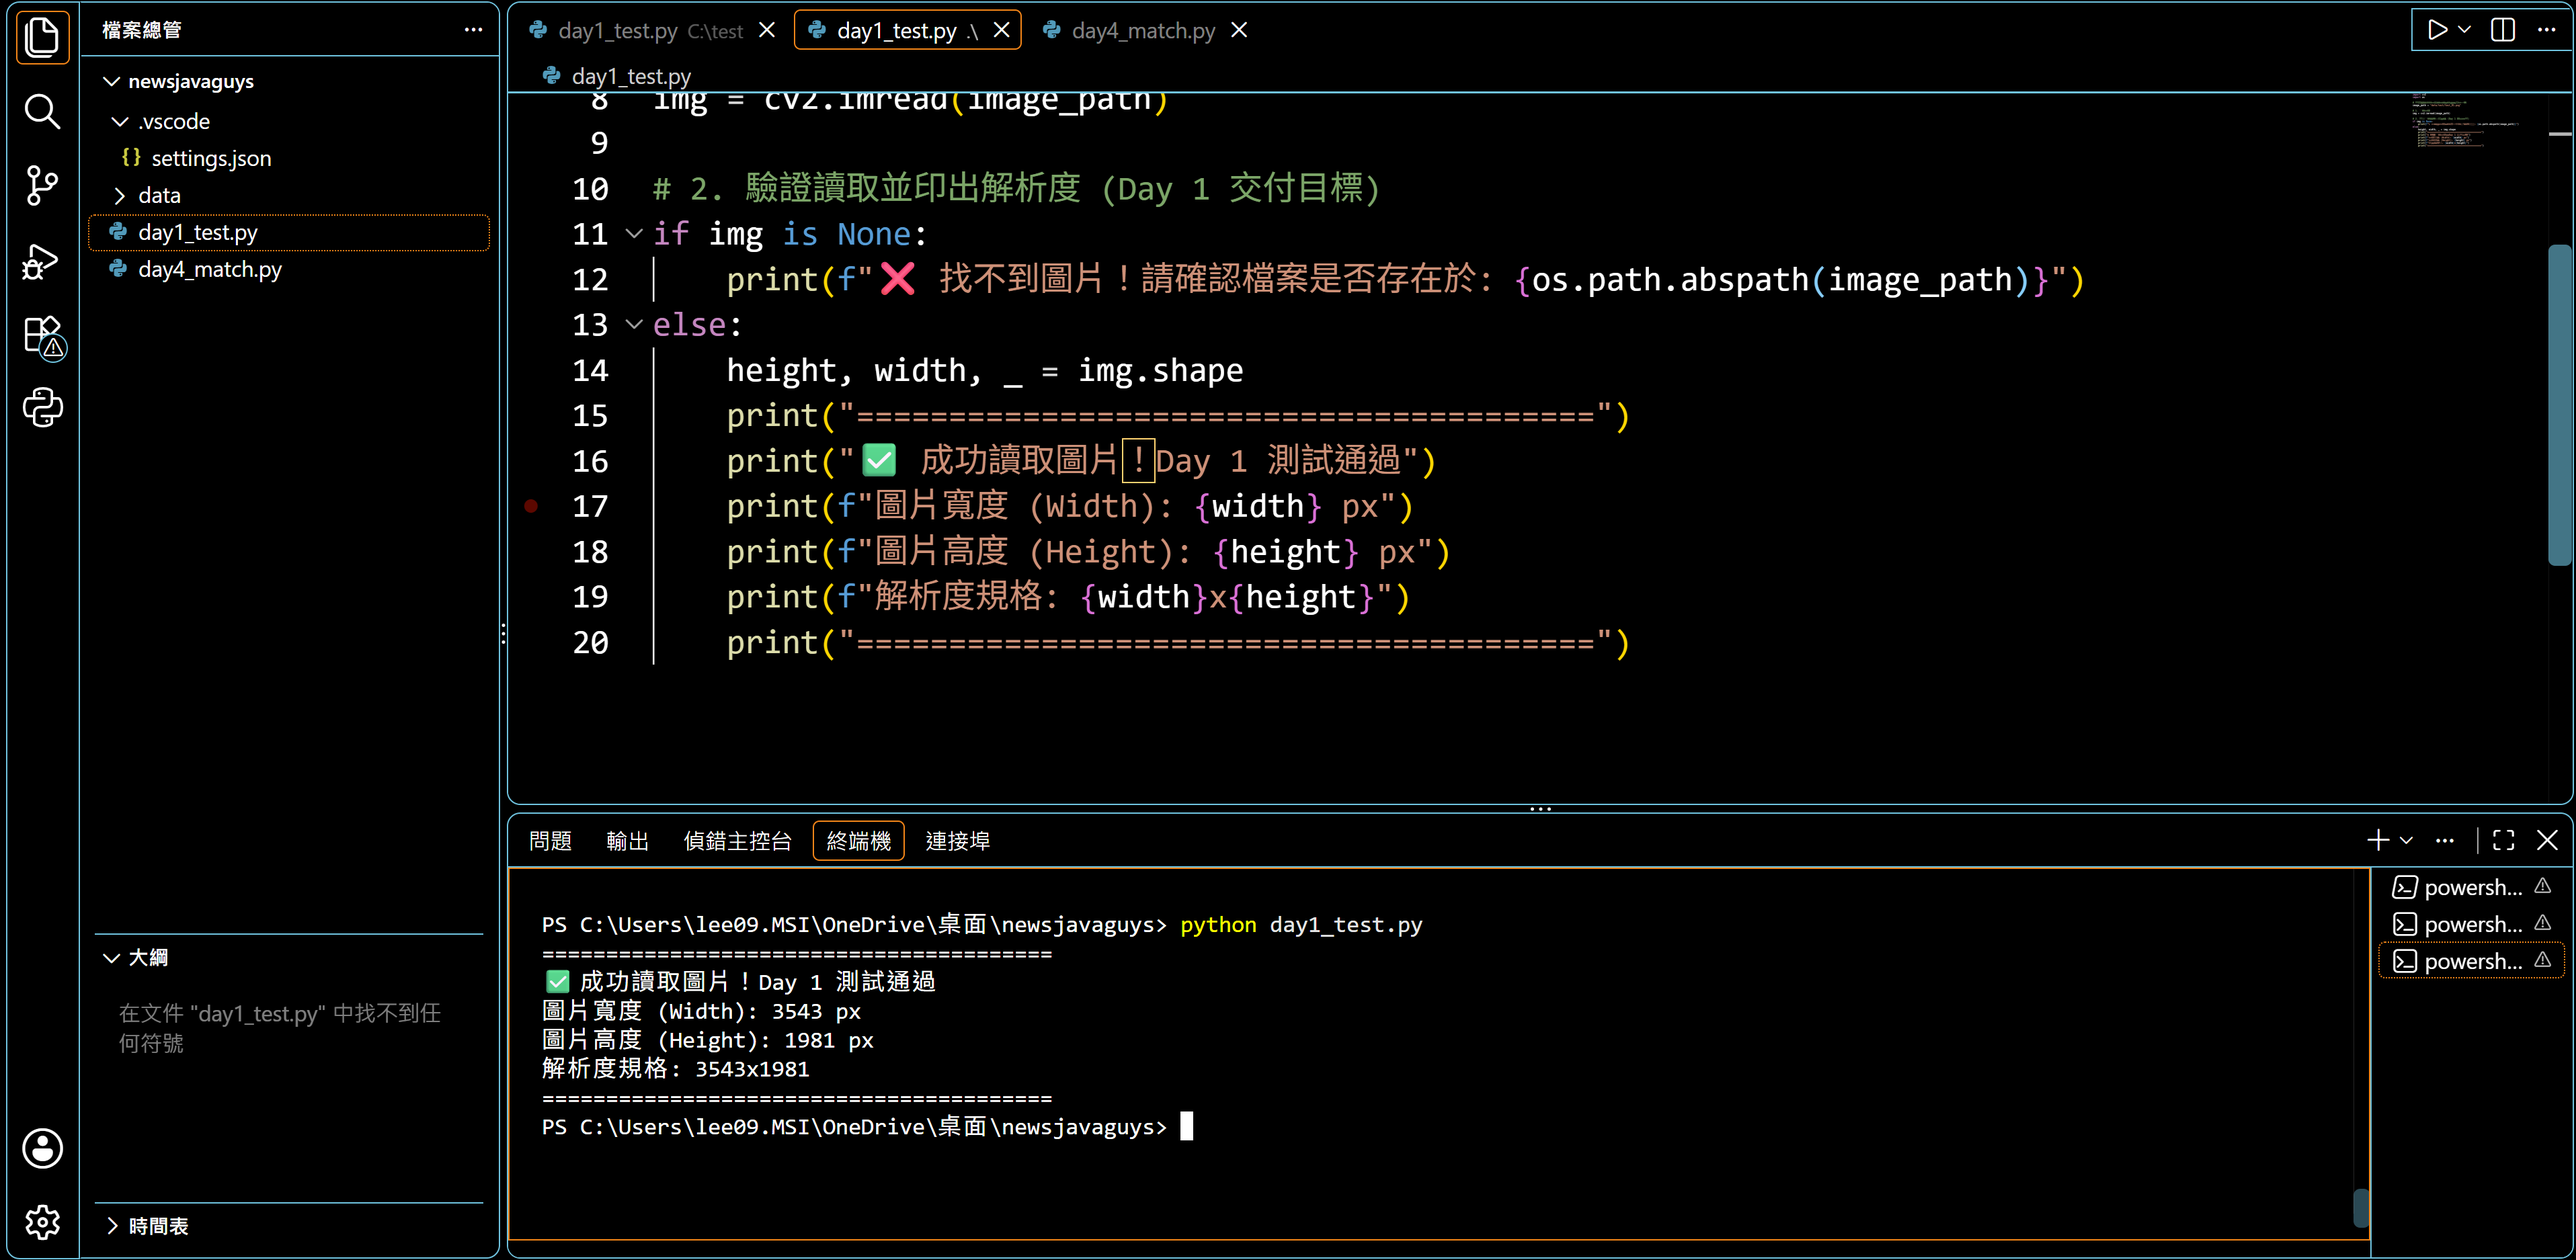
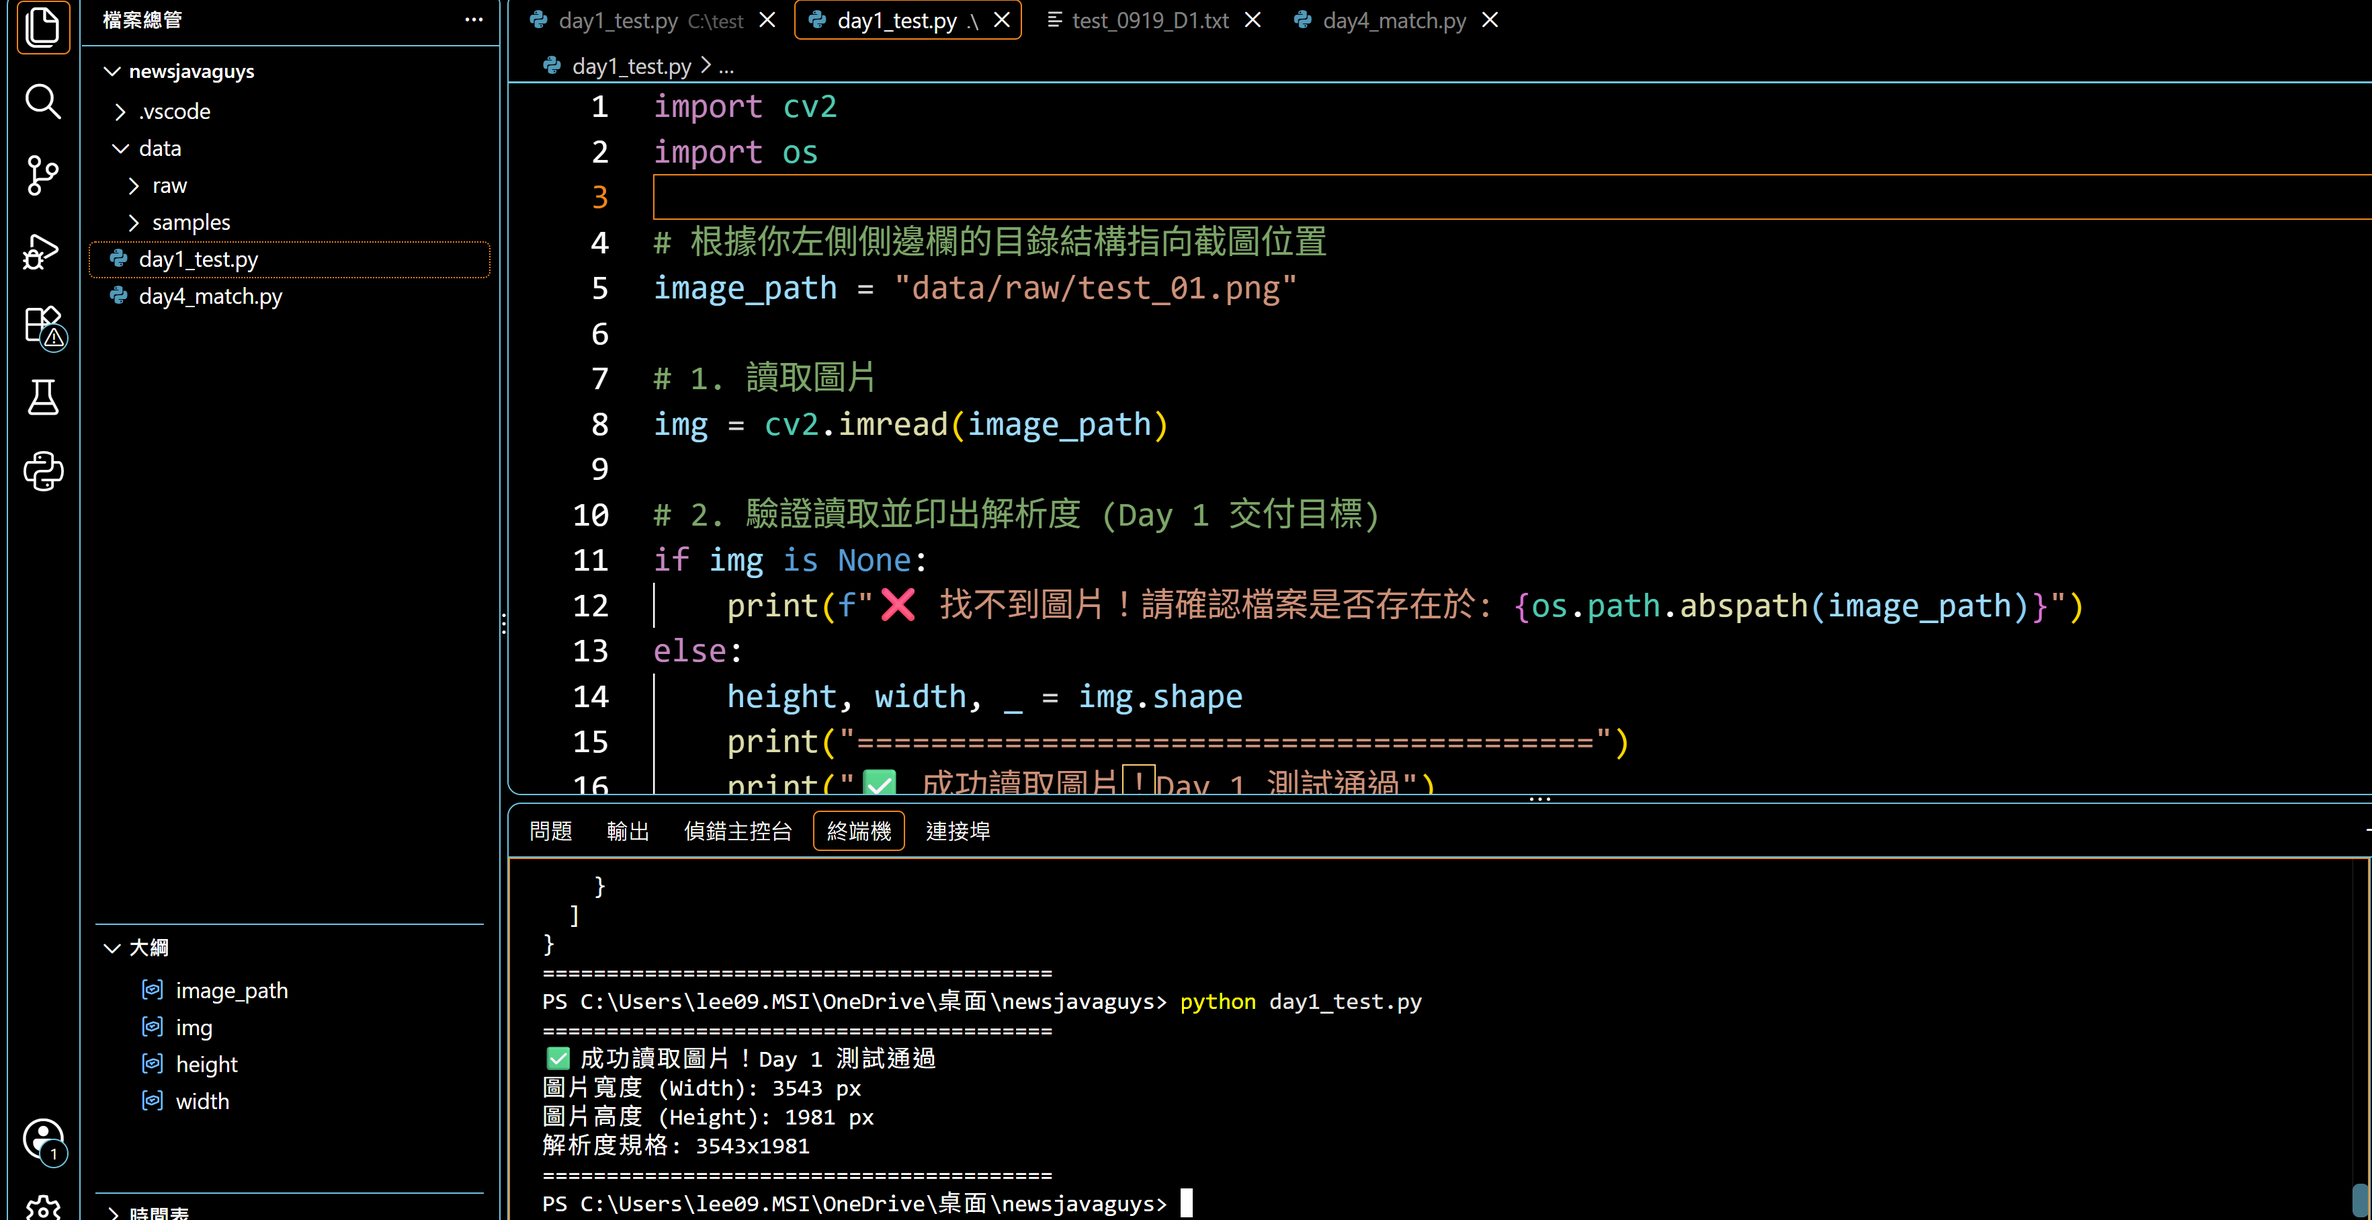
refactor: update data path specs, code blocks, and capture.py skeleton

diff --git a/docs/perception/data_spec.md b/docs/perception/data_spec.md
@@ -3,15 +3,15 @@
 ## 1. 專案目錄結構
 ```text
 TW16-Mahjong-Agent/
-├── configs/
-├── data/
+├── configs/          # 設定檔目錄
+├── data/             # 資料目錄
 │   ├── raw/          # 原始測試圖片
 │   ├── processed/    # 預處理後影像
 │   └── samples/      # 42 張牌面模板 (0.png ~ 41.png)
-├── docs/
-│   └── perception/
-├── src/
-└── main.py
+├── docs/             # 專案文檔目錄
+│   └── perception/   # 視覺模組規格文檔與圖片
+├── src/              # 主程式碼目錄
+└── main.py           # 專案入口點
 ```
 
 ## 2. 標註與結構驗證

diff --git a/docs/perception/capture_spec.md b/docs/perception/capture_spec.md
@@ -2,7 +2,7 @@
 
 ## 1. 解析度與視窗設定
 * **基準解析度**：3543 x 1981 (全螢幕)
-* **擷取方式**：現階段透過 OpenCV (`cv2.imread('data/test/test_01.png')`) 讀取固定測試截圖進行分析與視覺驗證，後續階段再接入即時畫面擷取模組（如 `mss` / `pyautogui`）。
+* **擷取方式**：現階段透過 OpenCV (`cv2.imread('data/raw/test_01.png')`) 讀取固定測試截圖進行分析與視覺驗證，後續階段再接入即時畫面擷取模組（如 `mss` / `pyautogui`）。
 
 ## 2. 測試截圖與驗證成果
 已驗證能正常讀取固定測試圖像並取得完整維度資訊。
